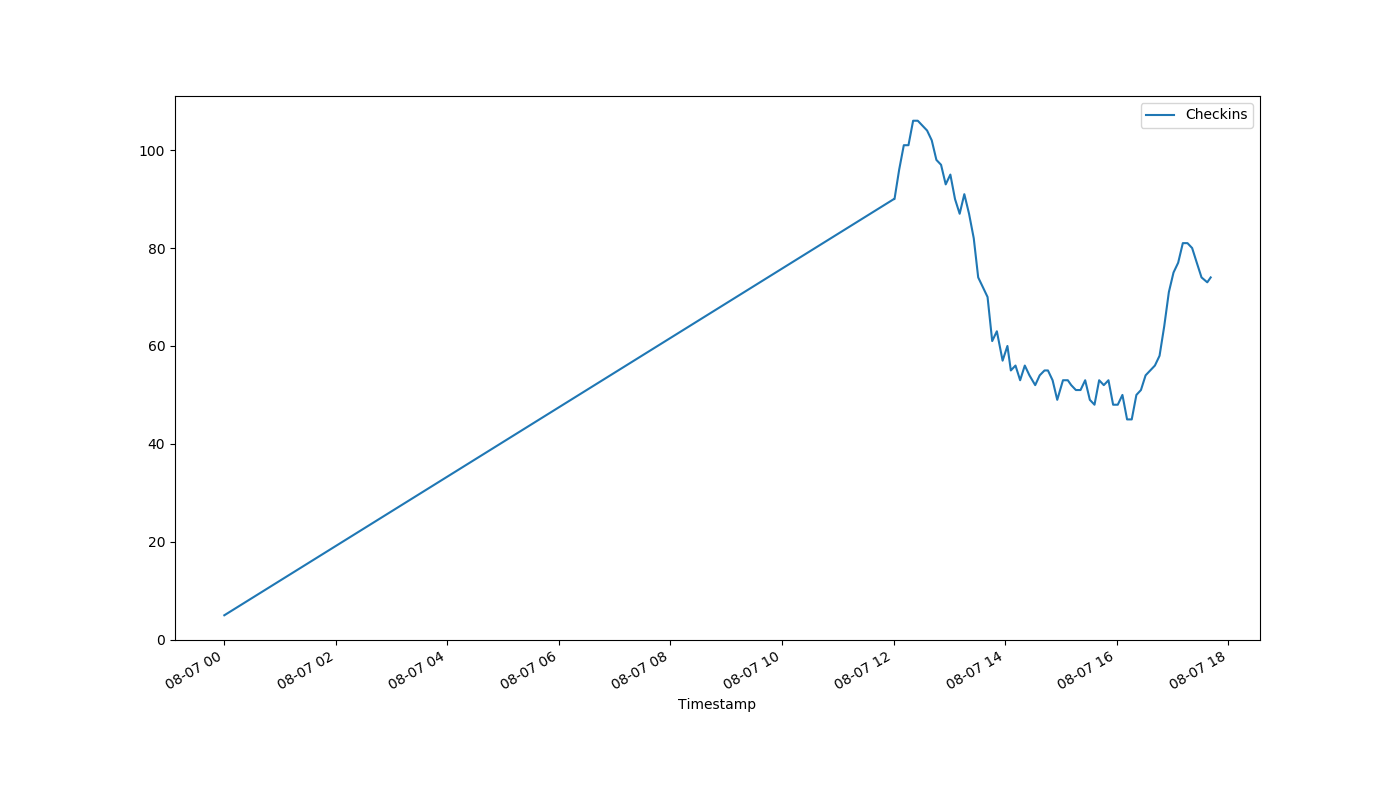
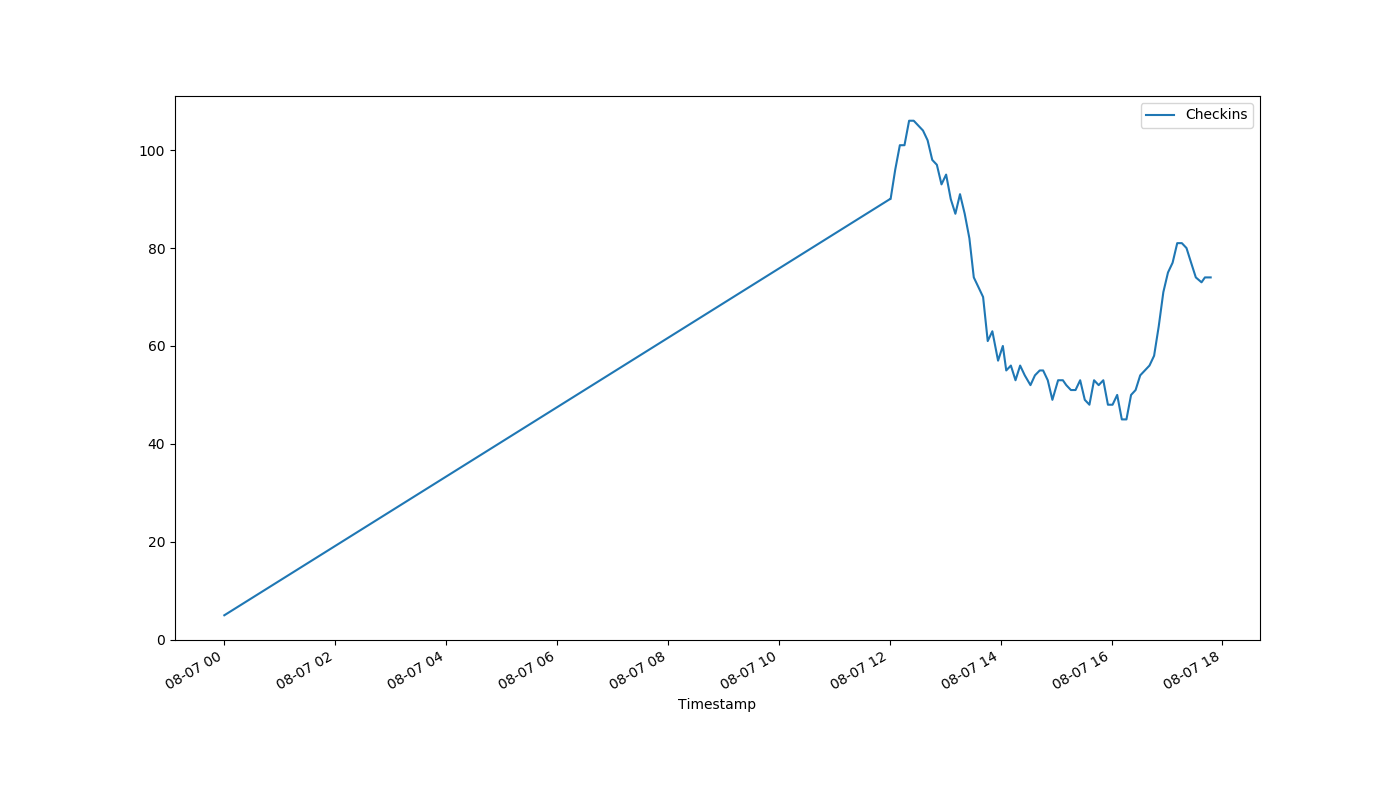
auto-Aug-07-17:49:11

diff --git a/index.html b/index.html
@@ -1,1 +1,1 @@
-<!DOCTYPE html><html><head><meta http-equiv="refresh" content="30"><link rel='stylesheet' href='holmcurrent.css'></head><body><p id='count'>74</p><div id='graph-wrap'><img id='graph' src='holmgraph-Aug-07.png'></div><p id='updated'>Last updated 17:42:02 / 17:41:03</p></body></html>
+<!DOCTYPE html><html><head><meta http-equiv="refresh" content="30"><link rel='stylesheet' href='holmcurrent.css'></head><body><p id='count'>74</p><div id='graph-wrap'><img id='graph' src='holmgraph-Aug-07.png'></div><p id='updated'>Last updated 17:48:03 / 17:47:16</p></body></html>
